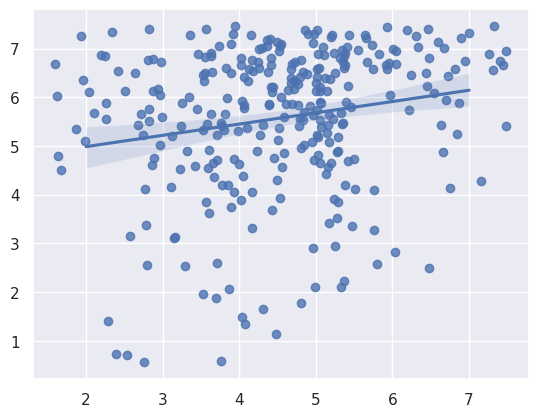
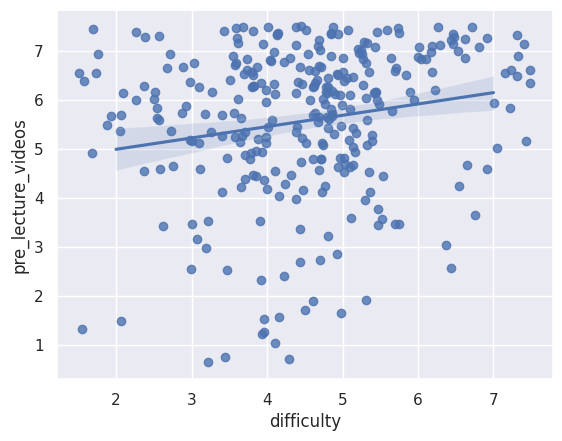
Push website changes

diff --git a/index.md b/index.md
@@ -5,12 +5,9 @@ layout: default
 
 # EX 09 - Johnny Ta and Bianca Salve
 
-<!-- This is a comment. Below, you'll see code for inserting an image. To make this image appear, update <custom-path>. To add an image, save it inside the imgs folder of this repository. -->
-<img src="<static/imgs/output.png" alt="First seaborn graph, histogram displaying the distribution of difficulty ratings in COMP110. "  width="500"/>
-
 ## Analysis Summary
 
-For our analysis, we wanted to look at the relationship between student's percieved difficulty of COMP110 and student's desire for pre-lecture videos. We hypothesized thatthe higher that students rank the difficulty of COMP 110, the more likely they would want pre-class videos. We reasoned this to be more valuable than the other ideas because with the results, professors will be able to determine whether or not the creation of pre-class videos would benefit studnets in future sections. 
+For our analysis, we wanted to look at the relationship between student's percieved difficulty of COMP110 and student's desire for pre-lecture videos. We hypothesized that the higher that students rank the difficulty of COMP 110, the more likely they would want pre-class videos. We reasoned this to be more valuable than the other ideas because with the results, professors will be able to determine whether or not the creation of pre-class videos would benefit studnets in future sections. 
 
 To analyze the data we took the data through a few steps:
 
@@ -21,3 +18,29 @@ To analyze the data we took the data through a few steps:
 5. We then called the count function to count the frequency of each rating of `pre_lecture_videos` among those students with little to no coding experience.
 6. Next, we used `select` to only choose our two variables of interest, `pre_lecture_videos` and `difficutly`. 
 7. Finally, we used seaborn to create four graphs: 2 histograms, 1 linear regression/scatterplot, and 1 bivariate histogram.
+
+<br>
+
+### 7.1 Seaborn Visualizations - Histogram (Difficulty)
+<img src="static/imgs/output.png" alt="First seaborn graph, histogram displaying the distribution of difficulty ratings in COMP110. "  width="500"/>
+
+This was our first histogram, where we visualized the frequency of each rating of `difficutly` in COMP110 students who had little to no previous coding experience. We found that most students rated it a moderate level of difficulty, around a 5 on a scale of 1-7.
+
+### 7.2 Seaborn Visualizations - Histogram (Pre-class Lectures)
+<img src="static/imgs/output2.png" alt="First seaborn graph, histogram displaying the distribution of difficulty ratings in COMP110. "  width="500"/>
+
+This was our second histogram, where we visualized the frequency of each rating for `pre_class_videos` in COMP110 students with little to no previous coding experience. We found that most students wanted pre-class videos, with the majority of respondents responding with 5-7 on a scale of 1-7.
+
+### 7.3 Seaborn Visualizations - Scatterplot
+<img src="static/imgs/output3.png" alt="First seaborn graph, histogram displaying the distribution of difficulty ratings in COMP110. "  width="500"/>
+
+This was our scatterplot, where we plotted the responses of `difficulty` (x-axis), and `pre_lecture_videos` (y-axis) on a scatterplot. We added jitter to the graph to spread out the plotted points for the sake of visualization, as there were only whole number values responses. We found that, generally, as people's rating of COMP110 increased, their desire for pre-lecture videos also increased. 
+
+### 7.4 Seaborn Visualizations - Bivariate Histogram
+<img src="static/imgs/output4.png" alt="First seaborn graph, histogram displaying the distribution of difficulty ratings in COMP110. "  width="500"/>
+
+Finally, this was our bivariate histogram, where we plotted the responses of `difficulty` (x-axis), and `pre_lecture_videos` (y-axis). Again, we found that, generally, as people's rating of COMP110 increased, their desire for pre-lecture videos also increased. Additionally, with the bivariate histogram we can see that a larger number of students rated COMP110 a 4-6 in difficulty, and rated their desire for pre-lecture-videos 5-7, on a scale of 1-7.
+
+## Conclusion
+
+As mentioned earlier, most students found COMP110 to be moderately difficult, with about 140 students indicating a difficulty level of 4, and about 130 students indicating a difficulty level of 5 on a 7 point scale. The graph was slightly skewed to the left (indicating a higher concentration of students indicating a higher difficulty level). There were no significant outliers, but a few students rated COMP110 with a difficulty of 1 (about 7 to 10 students). In terms of pre-lecture videos, 100 students provided a score of 5, 110 provided a score of 6, and about 145 rated a score of 7, indicating a high demand for pre-lecture videos and a positive correlation between number of students and demand of pre-lecture videos. While the scatterplot indicated a wide array of results, it is important to note that the slope is positive, meaning that as the number of students increased, the more the value of pre-lecture videos increased. The addition of pre-lecture videos would not have too many monetary costs, as the university pays for video recording and hosting services like Panapto, but it may cost professors/TA's a little bit of their time. Furthermore, we don't see any negative impacts on any stakeholders, as it would help students, possibly improve the overall grades of the course, and may even give the CS department and the university a higher reputation.
